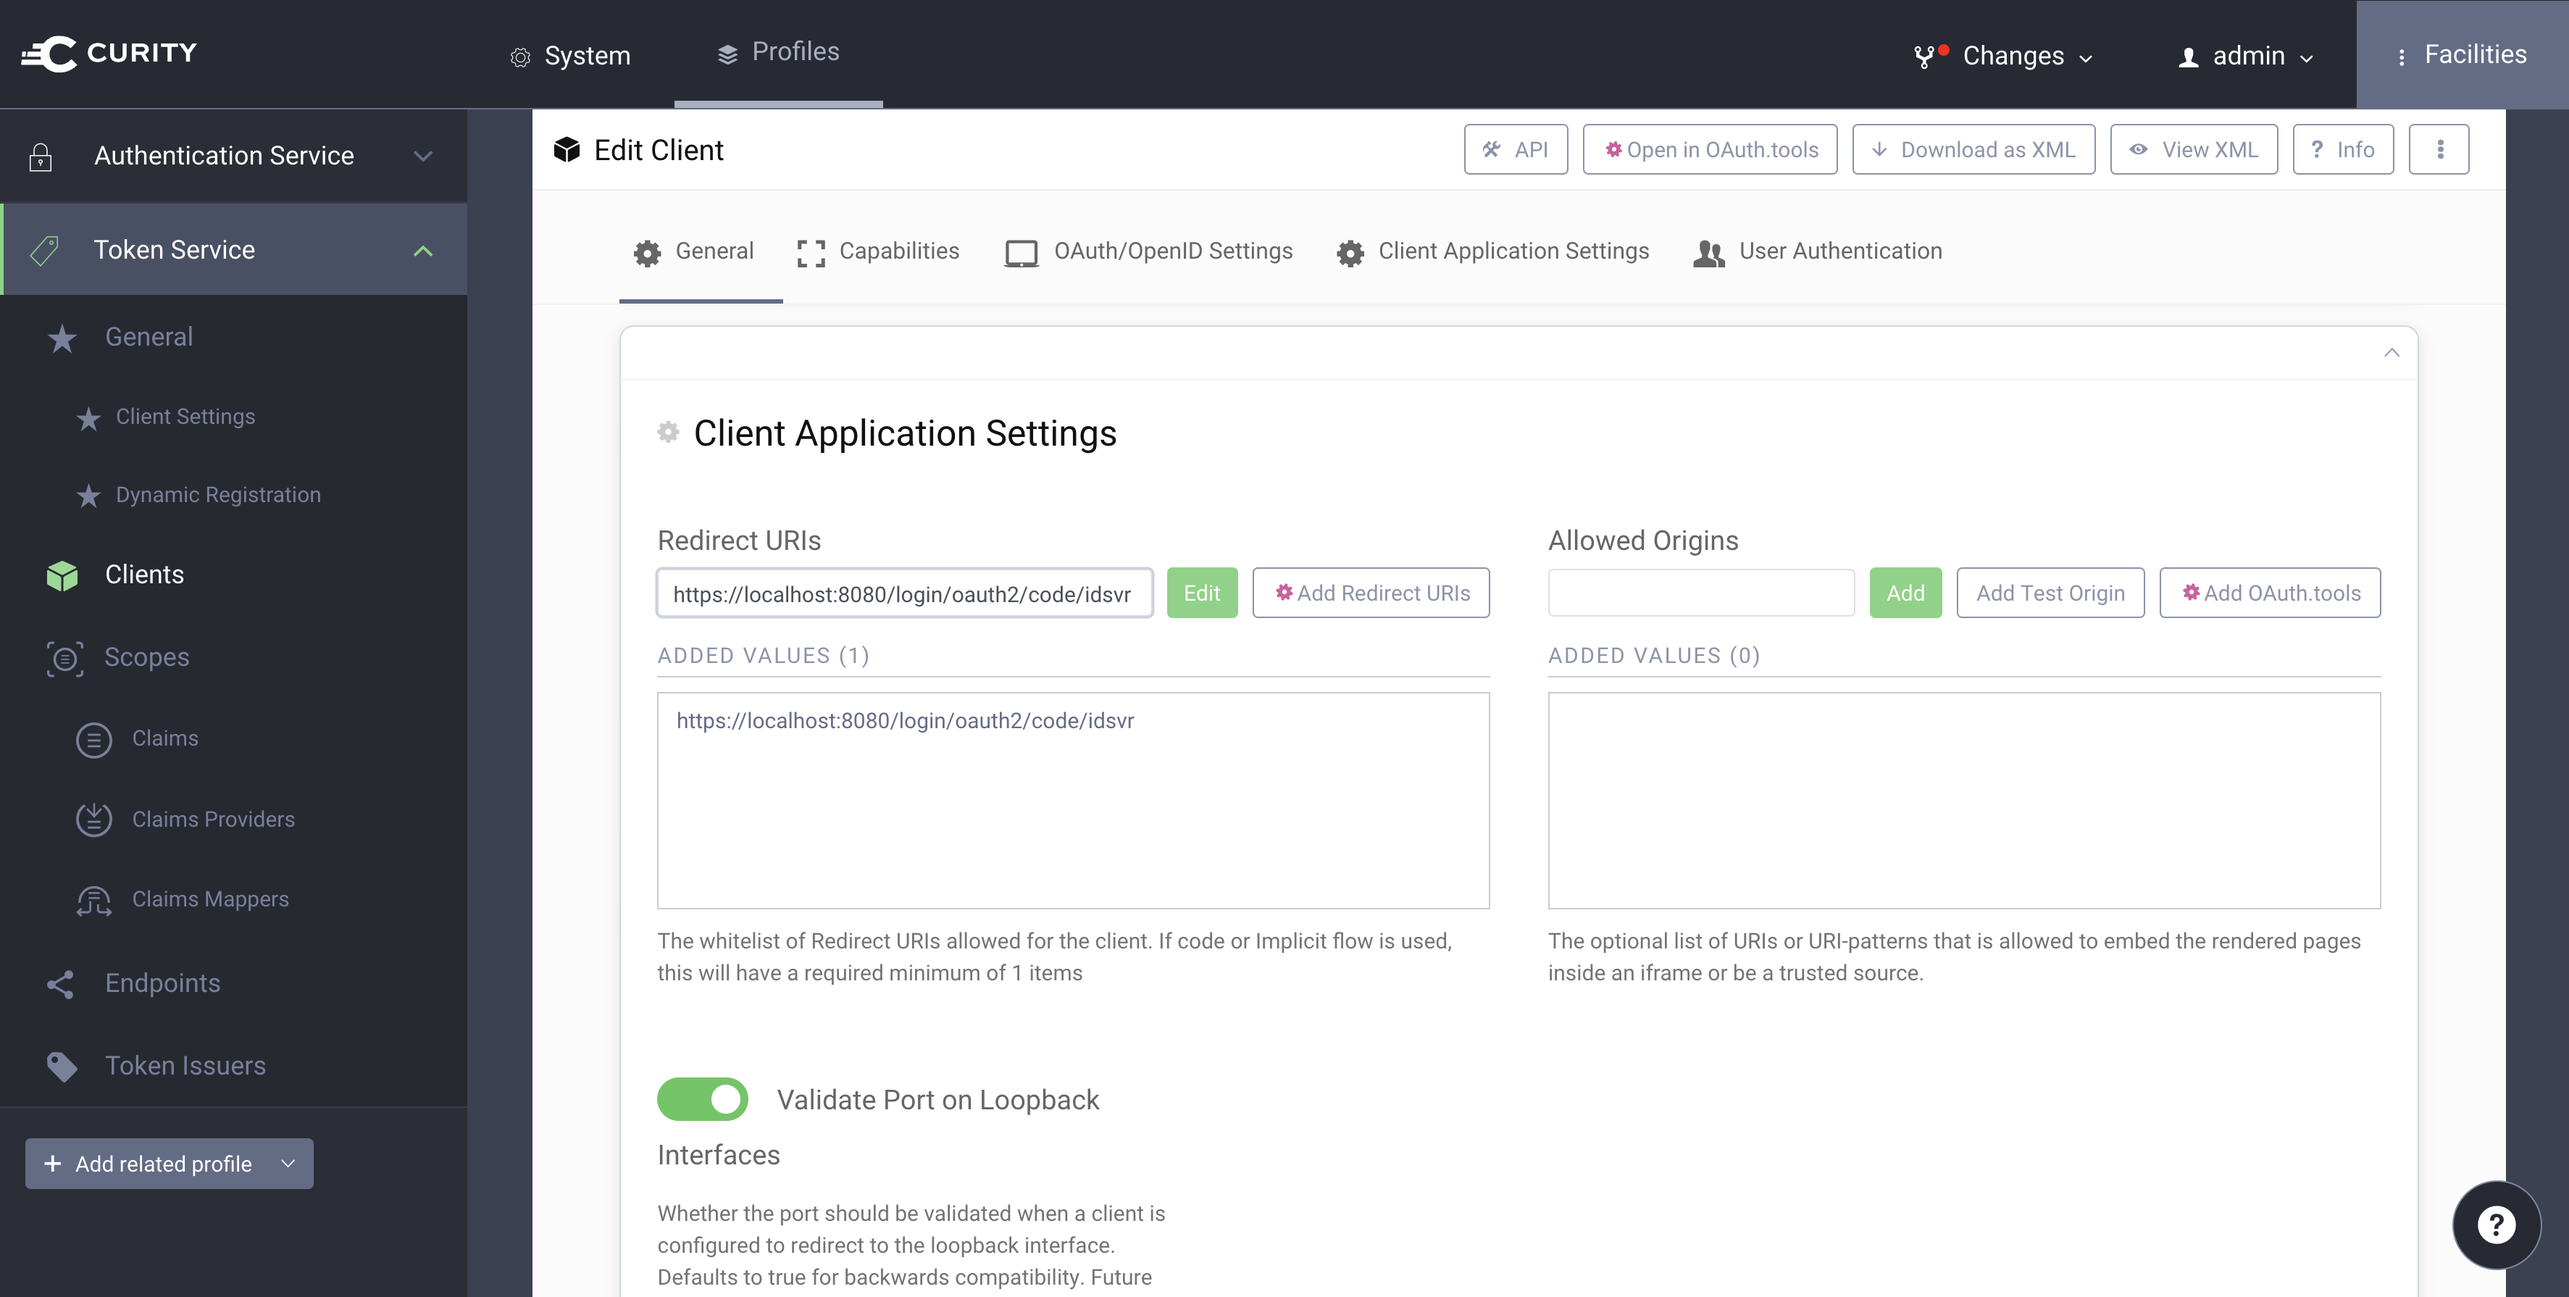
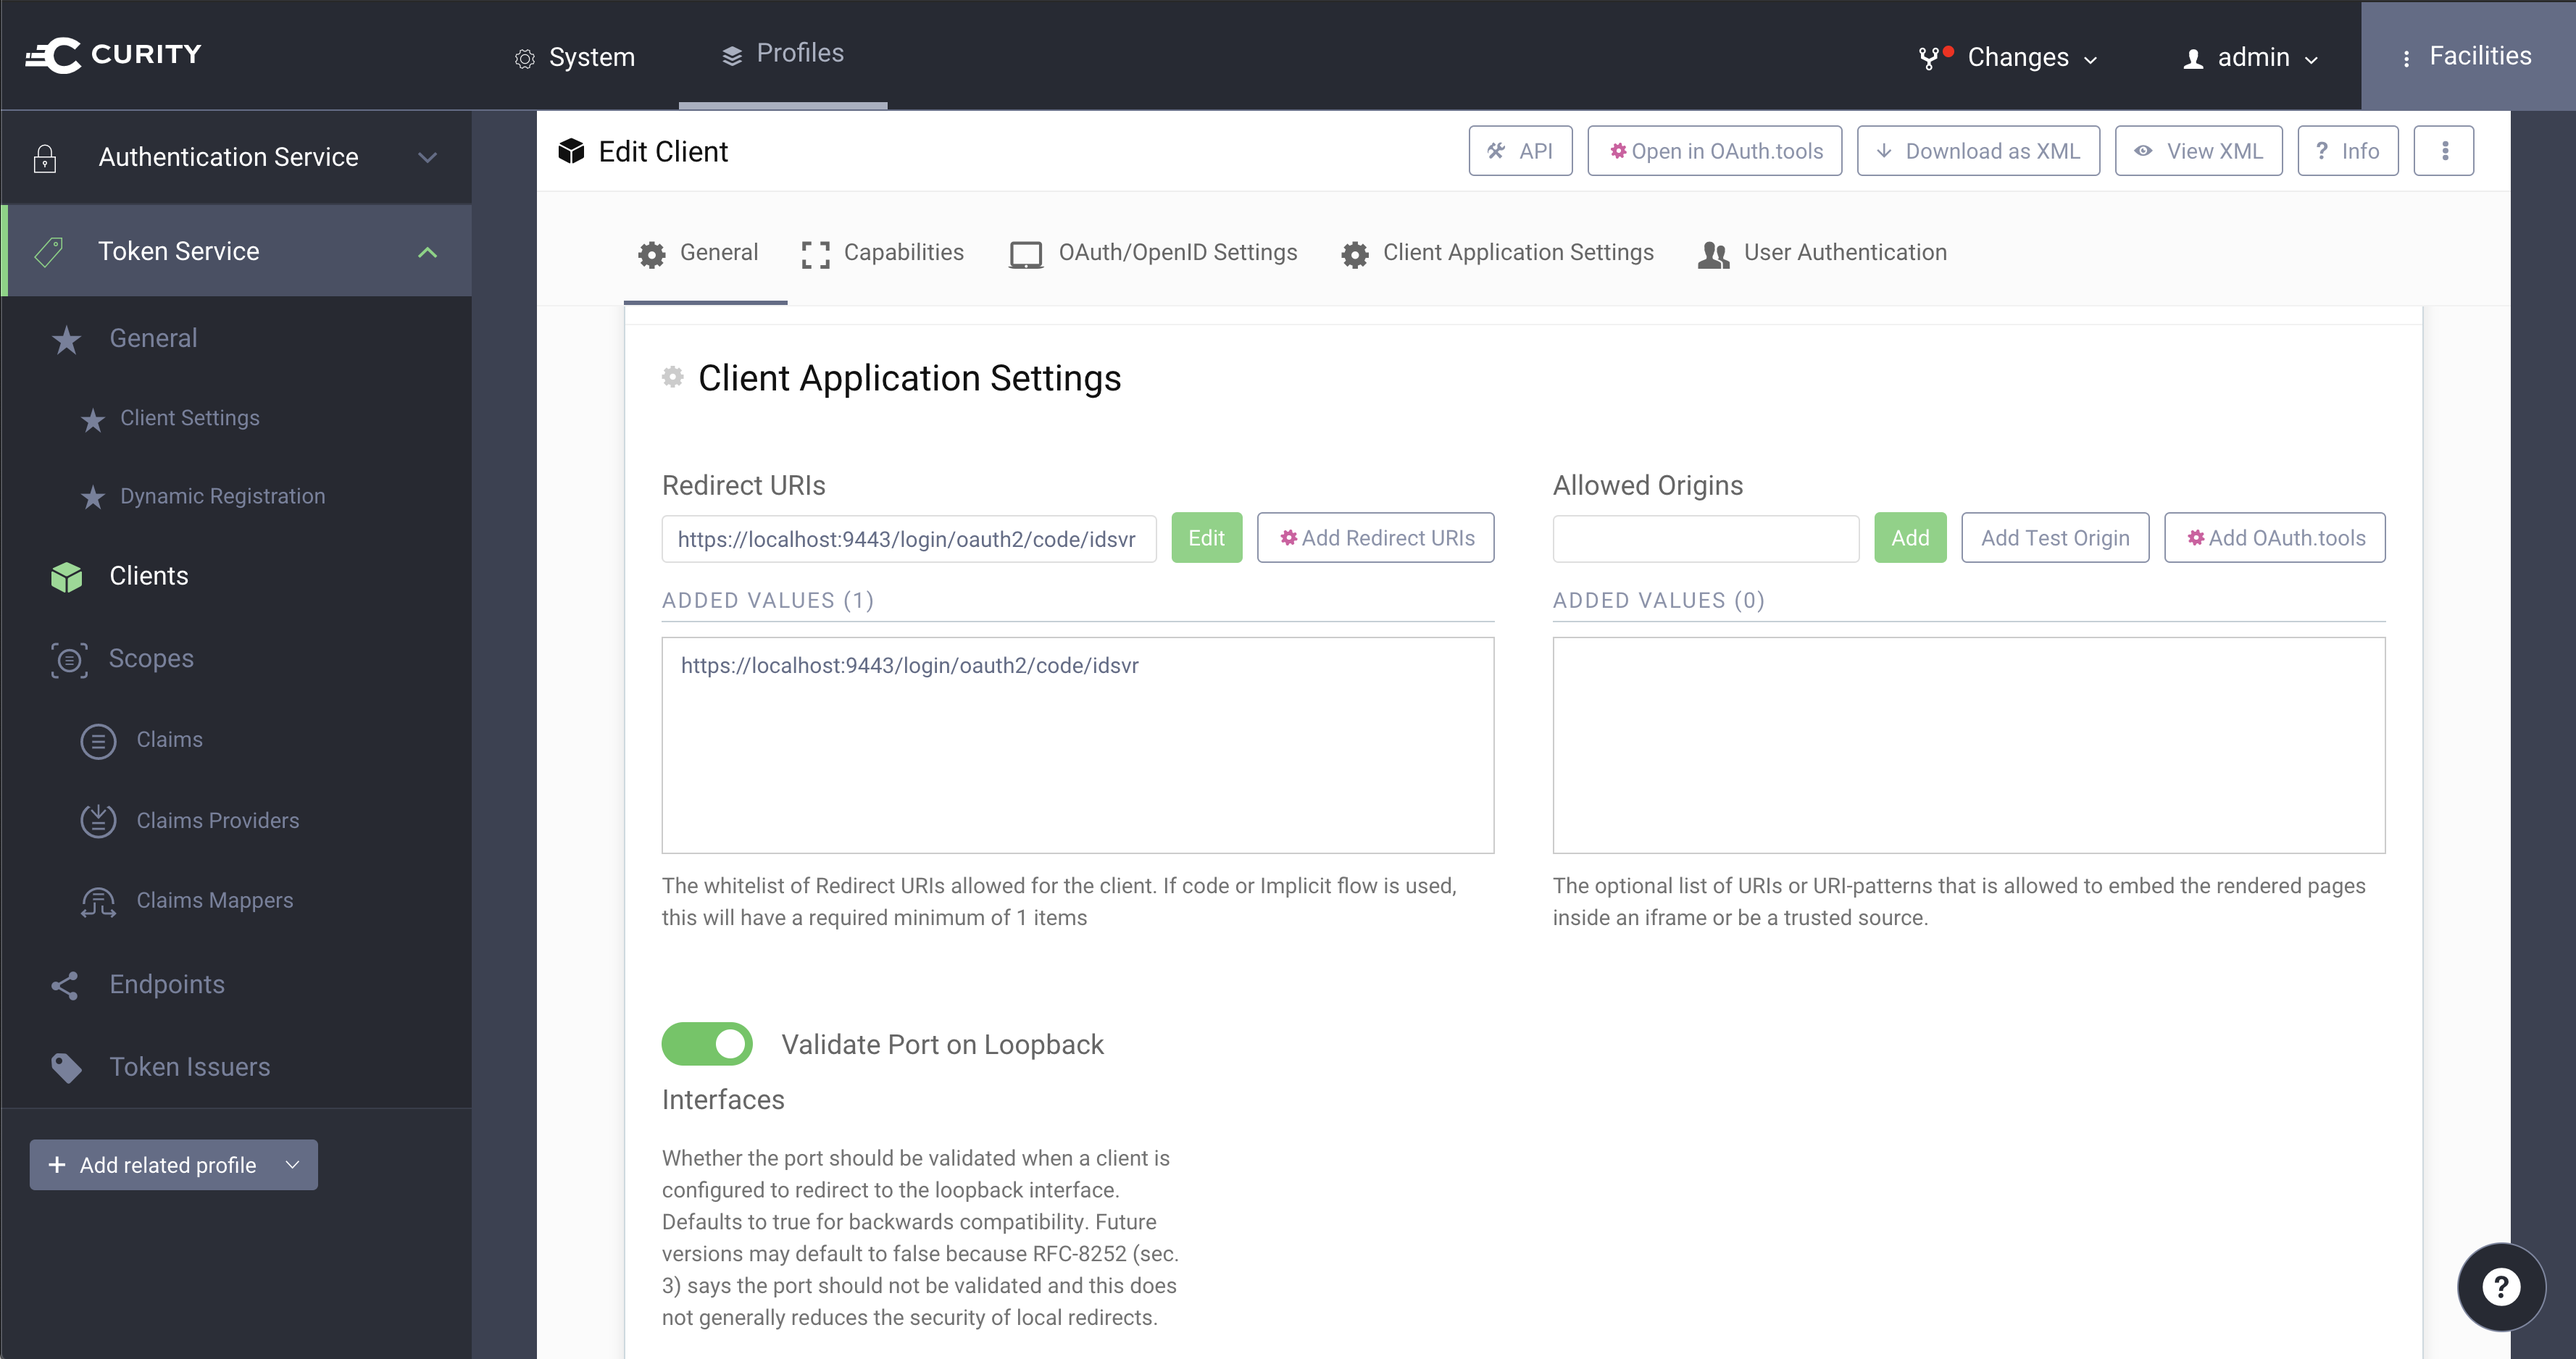
Change recommended keystore type and add HTTPS (#2)
* Use PKCS12

* Run with HTTPS

* Fix note in readme

diff --git a/README.md b/README.md
@@ -4,15 +4,34 @@ This repository contains an example implementation that demonstrate how to use S
 There are only two things to consider when configuring the client in the Curity Identity Server:
 
 * choose the authentication method `mutual tls` and make sure it uses the self-signed certificate created below. 
-* register the following redirect uri for your client: `http://localhost:8080/login/oauth2/code/idsvr`. 
+* register the following redirect uri for your client: `https://localhost:9443/login/oauth2/code/idsvr`. 
 
 The redirect uri is the path of the application where the Curity Identity Server will redirect to after the user was authenticated. In this case we assume that this example will be hosted on `localhost`. 
 
-## Create a Self-Signed Certificate
+## Create a Self-Signed Server Certificate for HTTPS
+We secure this client application with HTTPS on port `9443` and need a certificate for that. Since this is just an example we create a self-signed certificate. Do not use self-signed certificates in production environments.
+
+```bash
+keytool -genkeypair -alias https -keyalg RSA -keysize 4096 -keystore server.p12 -storepass Secr3t -storetype pkcs12 -validity 10 -dname "CN=localhost, OU=Example, O=Curity AB, C=SE"
+```
+Place the key store `server.p12` in `src/main/resources`. Update the application configuration file `src/main/resources/application.yml` to run HTTPS on port `9443`:
+
+```yaml
+server:
+  port: 9443
+  ssl:
+    key-store: classpath:server.p12
+    key-store-password: Secr3t
+    key-store-type: pkcs12
+    key-store-alias: https
+```
+> **Note**: The browser will not trust this self-signed server certificate. You may notice an `SSLHandshakeException` in the console when running this example. Make sure your browser trusts the certificate if you want to get rid of the error.
+    
+## Create a Self-Signed Certificate for MTLS
 For mutual TLS client authentication to work you need a client certificate. Create a Java keystore with the self-signed certificate.
 
 ```bash
-keytool -genkey -alias demo-client -keyalg RSA -keysize 4096 -keystore demo-client.keystore -storepass Secr3t -validity 10 -dname "CN=demo-client, OU=Example, O=Curity AB, C=SE"
+keytool -genkeypair -alias demo-client -keyalg RSA -keysize 4096 -keystore demo-client.p12 -storepass Secr3t -storetype pkcs12 -validity 10 -dname "CN=demo-client, OU=Example, O=Curity AB, C=SE"
 ```
 
 Place the key store in `src/main/resources`. See [Configure Application](#configure-application) for details.
@@ -20,7 +39,7 @@ Place the key store in `src/main/resources`. See [Configure Application](#config
 Export the certificate and use it to configure the client at the Curity Identity Server. See [Curity Identity Server Configuration](#curity-identity-server-configuration).
 
 ```bash
-keytool -export -alias demo-client -keystore demo-client.keystore -storepass Secr3t -file demo-client.cer 
+keytool -export -alias demo-client -keystore demo-client.p12 -storepass Secr3t -storetype pkcs12 -file demo-client.cer
 ```
 
 ## Curity Identity Server Configuration
@@ -51,7 +70,7 @@ To run this example you need to setup some configurations in the Curity Identity
    
    ![image](./docs/images/client-capabilities.png)
    
-1. Update the `Redirect URIs` setting for the `demo-client`. The redirect URI should be `http://localhost:8080/login/oauth2/code/idsvr`.
+1. Update the `Redirect URIs` setting for the `demo-client`. The redirect URI should be `https://localhost:9443/login/oauth2/code/idsvr`.
    
    ![image](./docs/images/client-redirect-uri.png)
    
@@ -91,15 +110,16 @@ Place the keystore created above in the `resources` folder and configure the SSL
 custom:
   client:
     ssl:
-      key-store: demo-client.keystore
+      key-store: demo-client.p12
       key-store-password: Secr3t
+      key-store-type: pkcs12
 ```
 
 ## Trust Server Certificate
-The application, in particular the underlying `WebClient` implementations that handle the requests to the token server namely to the Curity Identity Server, must trust the certificate provided by the server. Put the server certificate in a trust store:
+The application, in particular the underlying `WebClient` implementations that handle the requests to the token server namely to the Curity Identity Server, must trust the certificate provided by the server. Put the server certificate (`idsvr.cer`) in a trust store:
 
 ```bash
-keytool -import -file localhost.cert -alias myServer -keystore localhost.truststore
+keytool -import -file idsvr.cer -alias idsvr -keystore idsvr.p12 -storepass changeit -storetype pkcs12 -noprompt
 ```
 
 Place the trust store in the `resources` folder and update the SSL/TLS settings for the oauth client in `application.yml`:
@@ -108,9 +128,9 @@ Place the trust store in the `resources` folder and update the SSL/TLS settings 
 custom:
     client:
       ssl: 
-        trust-store: localhost.truststore
+        trust-store: idsvr.p12
         trust-store-password: changeit
-        #trust-store-type: jks
+        trust-store-type: pkcs12
 ```
 
 > **Note** You may use a self signed certificate for the Curity Identity Server but make sure it is a valid certificate for the server name, i.e the certificate must include the hostname of the server in the subject or the list of subject alternative names. The client will otherwise reject the certificate and communication with the server will not work.
@@ -122,7 +142,7 @@ To start the application run
 ./gradlew bootRun
 ```
 
-Open `http://localhost:8080` in your browser. It will automatically start a login flow.
+Open `https://localhost:9443` in your browser. It will automatically start a login flow.
 
 ## More Information
 More information about OAuth 2.0, OpenID Connect and the Curity Identity Server can be found here:
